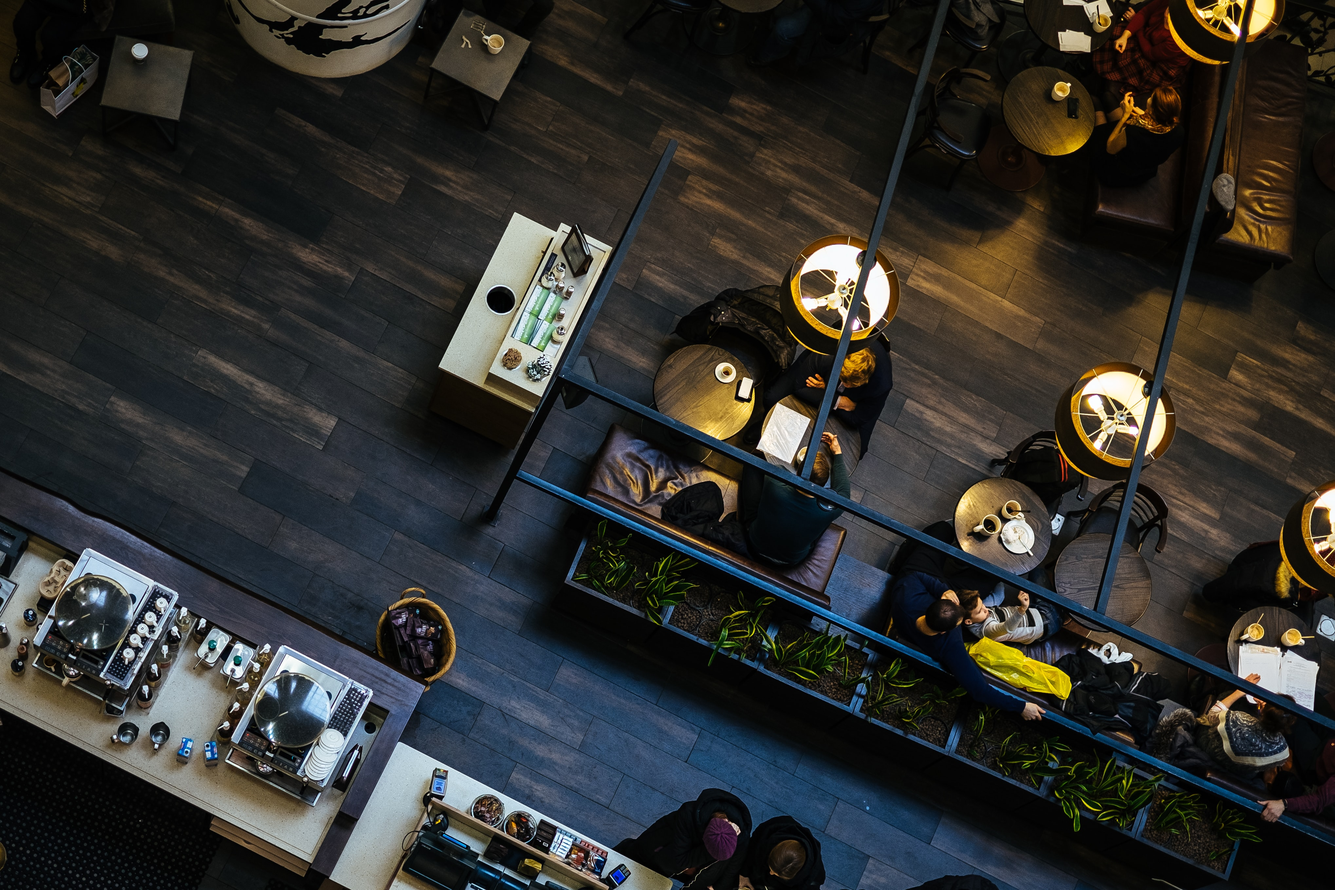
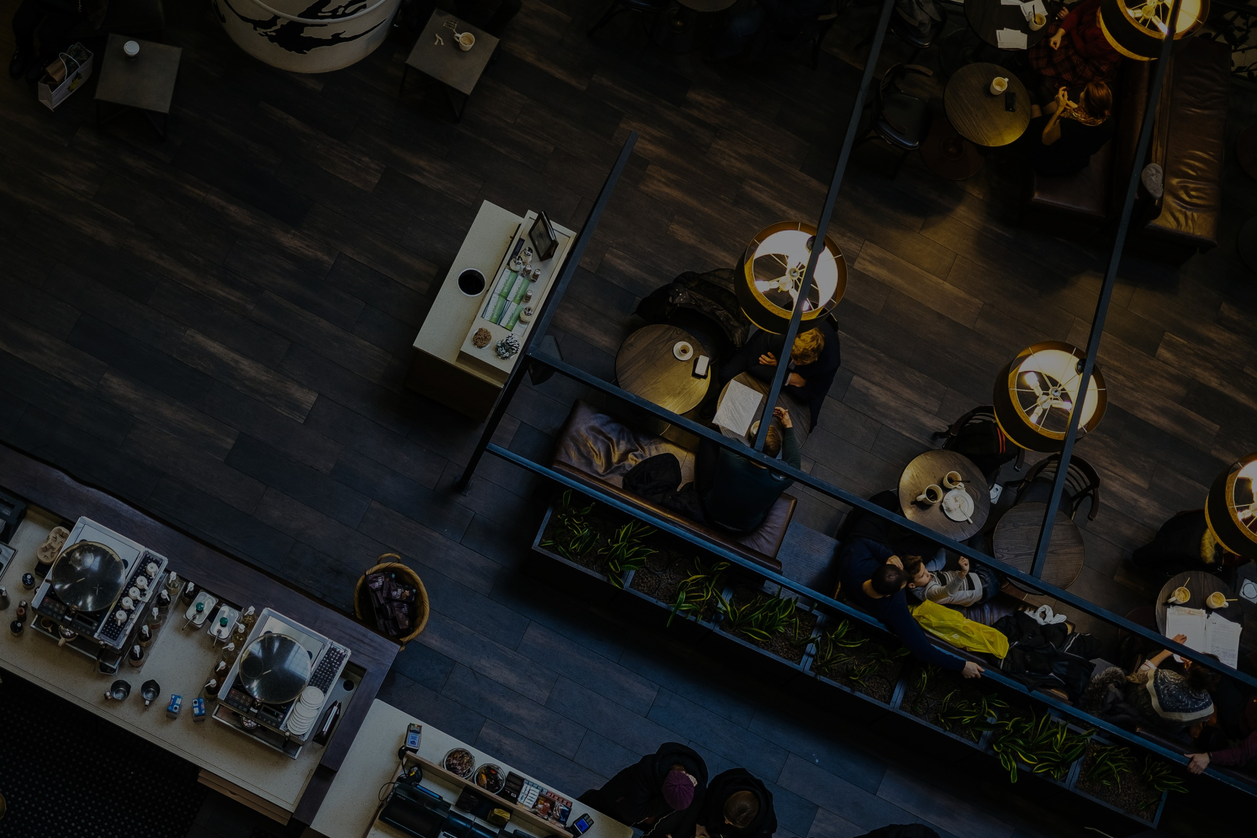
Desktop layout finished

diff --git a/main.js b/main.js
@@ -1,1 +1,1 @@
-!function(e){var t={};function n(o){if(t[o])return t[o].exports;var d=t[o]={i:o,l:!1,exports:{}};return e[o].call(d.exports,d,d.exports,n),d.l=!0,d.exports}n.m=e,n.c=t,n.d=function(e,t,o){n.o(e,t)||Object.defineProperty(e,t,{enumerable:!0,get:o})},n.r=function(e){"undefined"!=typeof Symbol&&Symbol.toStringTag&&Object.defineProperty(e,Symbol.toStringTag,{value:"Module"}),Object.defineProperty(e,"__esModule",{value:!0})},n.t=function(e,t){if(1&t&&(e=n(e)),8&t)return e;if(4&t&&"object"==typeof e&&e&&e.__esModule)return e;var o=Object.create(null);if(n.r(o),Object.defineProperty(o,"default",{enumerable:!0,value:e}),2&t&&"string"!=typeof e)for(var d in e)n.d(o,d,function(t){return e[t]}.bind(null,d));return o},n.n=function(e){var t=e&&e.__esModule?function(){return e.default}:function(){return e};return n.d(t,"a",t),t},n.o=function(e,t){return Object.prototype.hasOwnProperty.call(e,t)},n.p="",n(n.s=0)}([function(e,t,n){"use strict";n.r(t);var o=function(e){let t=document.createElement("div");t.id="main";let n=document.createElement("div");n.id="title";let o=document.createElement("h1");o.textContent="The Restaurant",n.appendChild(o),t.appendChild(n);let d=document.createElement("div");d.id="tabs";let r=document.createElement("div");r.id="home",r.textContent="Home",d.appendChild(r);let i=document.createElement("div");i.id="menu",i.textContent="Menu",d.appendChild(i);let l=document.createElement("div");l.id="contact",l.textContent="Contact",d.appendChild(l),t.appendChild(d),e.appendChild(t)};var d=function(e){let t=document.createElement("div");t.id="description";let n=document.createElement("p");n.textContent="The Restaurant is pretty good, because it has good food.         The Restaurant is pretty good, because it has good food.         The Restaurant is pretty good, because it has good food.         The Restaurant is pretty good, because it has good food.",t.appendChild(n),e.appendChild(t)};var r=function(e){let t=document.createElement("div");t.id="menu-div",t.textContent="menu",e.appendChild(t)};var i=function(e){let t=document.createElement("div");t.id="contact-div",t.textContent="contact",e.appendChild(t)};o(document.getElementById("content"));let l=document.getElementById("main");d(l);let c=document.getElementById("home");c.addEventListener("click",()=>{c.style.borderBottom="5px solid white",u.style.borderBottom="none",a.style.borderBottom="none",m(),d(l)});let u=document.getElementById("menu");u.addEventListener("click",()=>{c.style.borderBottom="none",u.style.borderBottom="5px solid white",a.style.borderBottom="none",m(),r(l)});let a=document.getElementById("contact");function m(){let e=document.getElementById("description"),t=document.getElementById("menu-div"),n=document.getElementById("contact-div");null!==e&&e.remove(),null!==t&&t.remove(),null!==n&&n.remove()}a.addEventListener("click",()=>{c.style.borderBottom="none",u.style.borderBottom="none",a.style.borderBottom="5px solid white",m(),i(l)})}]);
+!function(e){var t={};function n(o){if(t[o])return t[o].exports;var d=t[o]={i:o,l:!1,exports:{}};return e[o].call(d.exports,d,d.exports,n),d.l=!0,d.exports}n.m=e,n.c=t,n.d=function(e,t,o){n.o(e,t)||Object.defineProperty(e,t,{enumerable:!0,get:o})},n.r=function(e){"undefined"!=typeof Symbol&&Symbol.toStringTag&&Object.defineProperty(e,Symbol.toStringTag,{value:"Module"}),Object.defineProperty(e,"__esModule",{value:!0})},n.t=function(e,t){if(1&t&&(e=n(e)),8&t)return e;if(4&t&&"object"==typeof e&&e&&e.__esModule)return e;var o=Object.create(null);if(n.r(o),Object.defineProperty(o,"default",{enumerable:!0,value:e}),2&t&&"string"!=typeof e)for(var d in e)n.d(o,d,function(t){return e[t]}.bind(null,d));return o},n.n=function(e){var t=e&&e.__esModule?function(){return e.default}:function(){return e};return n.d(t,"a",t),t},n.o=function(e,t){return Object.prototype.hasOwnProperty.call(e,t)},n.p="",n(n.s=0)}([function(e,t,n){"use strict";n.r(t);var o=function(e){let t=document.createElement("div");t.id="main";let n=document.createElement("div");n.id="title";let o=document.createElement("h1");o.textContent="The Restaurant",n.appendChild(o),t.appendChild(n);let d=document.createElement("div");d.id="tabs";let i=document.createElement("div");i.id="home",i.textContent="Home",d.appendChild(i);let l=document.createElement("div");l.id="menu",l.textContent="Menu",d.appendChild(l);let a=document.createElement("div");a.id="contact",a.textContent="Contact",d.appendChild(a),t.appendChild(d),e.appendChild(t)};var d=function(e){let t=document.createElement("div");t.id="description";let n=document.createElement("p");n.textContent="The Restaurant is good, because it has good food.         The Restaurant is good, because it has good food.         The Restaurant is good, because it has good food.         The Restaurant is good, because it has good food.",t.appendChild(n),e.appendChild(t)};var i=function(e){let t=document.createElement("div");t.id="menu-div";const n=["pizza.jpg","fish_and_chips.jpg","burger.jpg","beef_ragu.jpg","pancakes.jpg","blueberry_cheesecake.jpg"],o=["Pizza","Fish and Chips","Burger","Beef Ragu","Pancakes","Blueberry Cheesecake"],d=["$12.00","$10.00","$9.00","$14.00","$8.00","$7.00"];for(let e=0;e<n.length;e++){let i=document.createElement("div");i.classList.add("menu-item");let l=document.createElement("img");l.classList.add("menu-image"),l.src=n[e];let a=document.createElement("div");a.classList.add("bottom-text");let c=document.createElement("div");c.classList.add("name-text"),c.textContent=o[e];let r=document.createElement("div");r.classList.add("price-text"),r.textContent=d[e],a.appendChild(c),a.appendChild(r),i.appendChild(l),i.appendChild(a),t.appendChild(i)}e.appendChild(t)};var l=function(e){const t=document.createElement("div");t.id="contact-div";const n=document.createElement("div");n.id="text-div";const o=document.createElement("p");o.textContent="Opening Hours:";const d=document.createElement("p");d.textContent="Mon - Thur: 11am - 9pm";const i=document.createElement("p");i.textContent="Fri - Sun: 9am - 11pm";const l=document.createElement("p");l.textContent="Phone: 01 2345 6789";const a=document.createElement("p");a.textContent="Email: info@therestaurant.com";const c=document.createElement("p");c.textContent="Location: ";const r=document.createElement("p");r.textContent="54 Cuisine Avenue, Eatville, Foodland",n.appendChild(o),n.appendChild(d),n.appendChild(i),n.appendChild(c),n.appendChild(r),n.appendChild(l),n.appendChild(a),t.appendChild(n),e.appendChild(t)};o(document.getElementById("content"));let a=document.getElementById("main");d(a);let c=document.getElementById("home");c.addEventListener("click",()=>{c.style.borderBottom="5px solid white",r.style.borderBottom="none",m.style.borderBottom="none",u(),d(a)});let r=document.getElementById("menu");r.addEventListener("click",()=>{c.style.borderBottom="none",r.style.borderBottom="5px solid white",m.style.borderBottom="none",u(),i(a)});let m=document.getElementById("contact");function u(){let e=document.getElementById("description"),t=document.getElementById("menu-div"),n=document.getElementById("contact-div");null!==e&&e.remove(),null!==t&&t.remove(),null!==n&&n.remove()}m.addEventListener("click",()=>{c.style.borderBottom="none",r.style.borderBottom="none",m.style.borderBottom="5px solid white",u(),l(a)})}]);

diff --git a/styles.css b/styles.css
@@ -3,19 +3,11 @@
     font-family: 'Times New Roman', Times, serif
 }
 
-body::before {
-    content: "";
-    position: absolute;
-    left: 0;
-    top: 0;
+html {
     background-image: url(restaurant.jpg);
-    background-repeat: no-repeat;
     background-position: center;
-    width: 100vw;
-    height: 100vh;
+    background-attachment: fixed;
     background-size: cover;
-    filter: brightness(50%);
-
 }
 
 #content {
@@ -44,7 +36,7 @@ body::before {
 
 #description {
     color: white;
-    font-size: 1.5em;
+    font-size: 1.7em;
     text-align: center;
     width: 50%;
     margin: auto;
@@ -81,14 +73,54 @@ body::before {
     color: white;
     font-size: 1.5em;
     text-align: center;
+    display: flex;
+    flex-wrap: wrap;
+    width: 90%;
+    margin: auto;
 }
+
+.menu-item {
+    margin-left: auto;
+    margin-right: auto;
+    margin-top: 20px;
+    margin-bottom: 20px;
+    background-color: rgb(190, 77, 77);
+}
+
+.menu-image {
+    width: 500px;
+    height: 300px;
+}
+
+.bottom-text {
+    width: 100%;
+    font-size: 1.2em;
+    height: 40px;
+}
+
+.name-text {
+    width: 70%;
+    display: inline-block;
+}
+
+.price-text {
+    width: 30%;
+    display: inline-block;
+}
+
+
 
 #contact-div {
     color: white;
     font-size: 1.5em;
-    text-align: center;
+    text-align: left;
+    display: flex;
+    justify-content: center;
 }
 
+#text-div > p {
+    margin: 10px;
+}
 @media only screen and (max-width: 600px) {
 
 }
